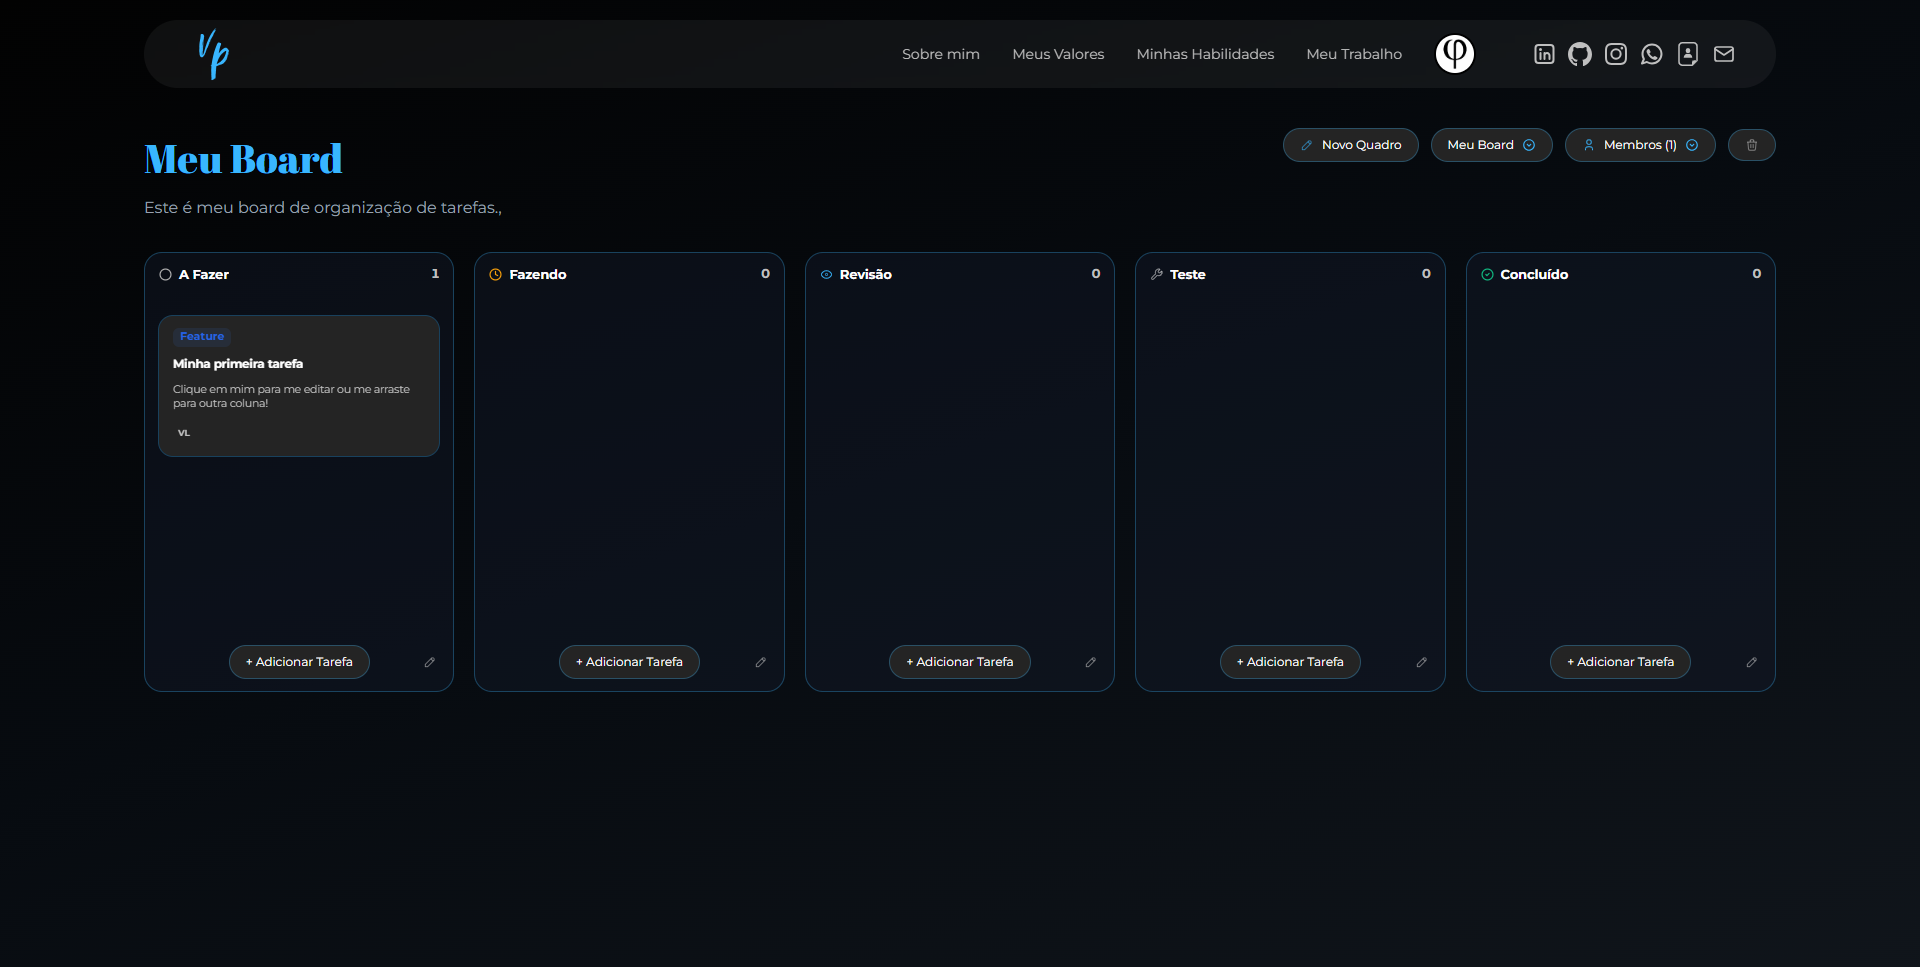
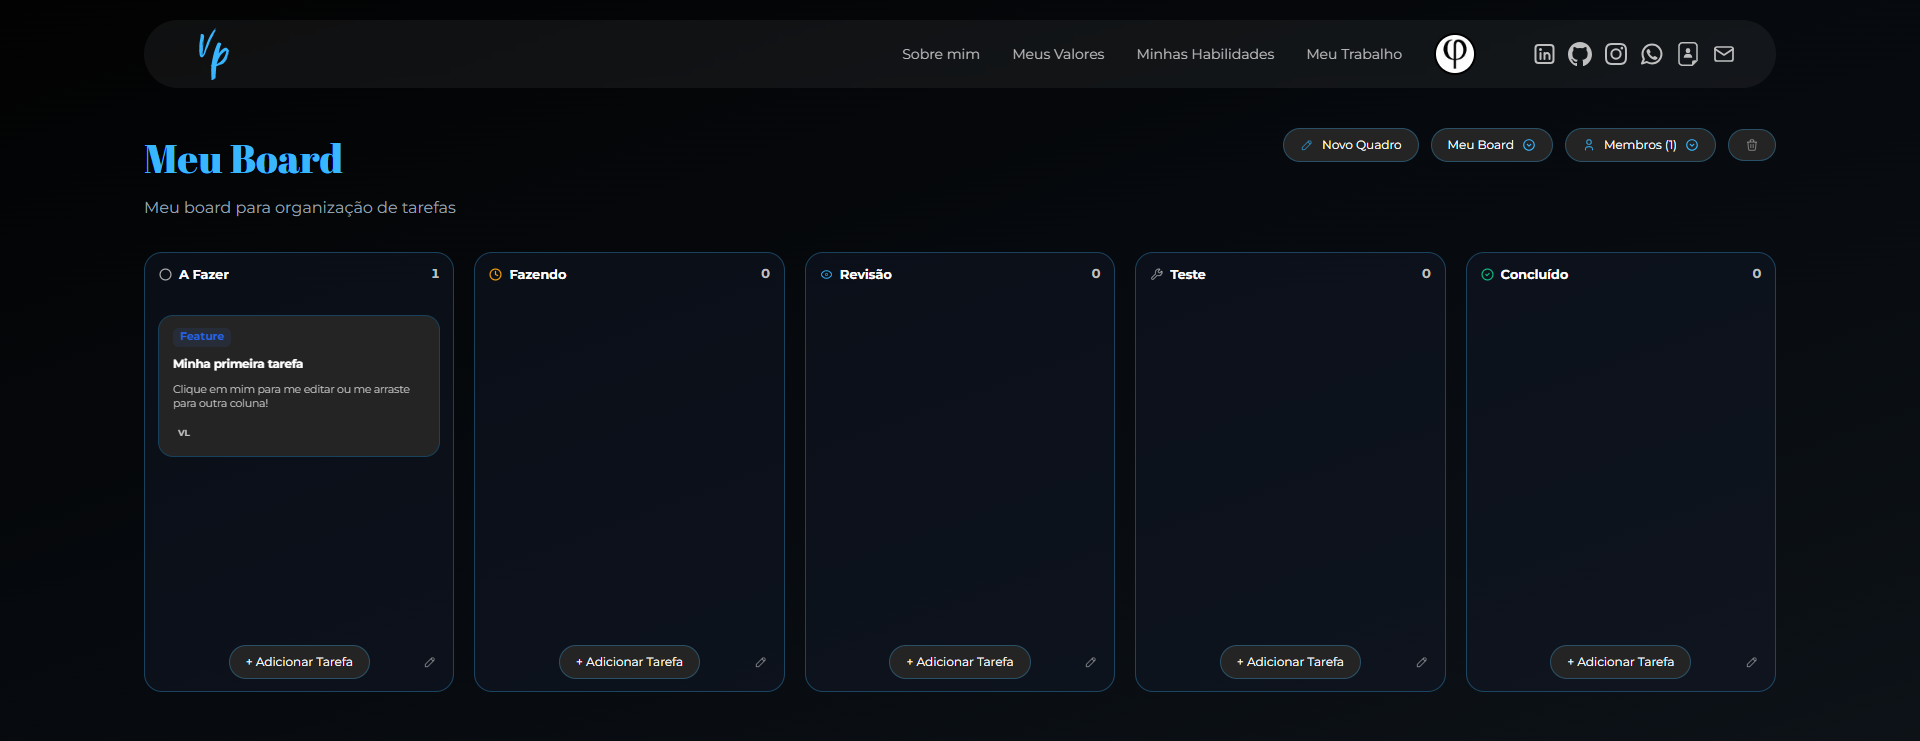
muda drawer, muda scrum-board.png

diff --git a/components/drawers/drawer/Drawer.tsx b/components/drawers/drawer/Drawer.tsx
@@ -25,7 +25,7 @@ export default function Drawer({ title, children, close }: Interface) {
             animate={{ x: 0 }}
             transition={{ duration: 0.4, ease: "easeOut" }}
             className="homeGrayBg h-full w-[85%] sm:w-[60%] lg:w-[40%] xl:w-[30%] flex flex-col gap-y-8
-            px-6 sm:px-10 py-8 overflow-y-auto border-l border-[#38b6ff]/30"
+            px-6 sm:px-10 py-8 overflow-y-auto"
          >
             <span className="flex justify-between items-center gap-x-4">
                <h2 className="authFormTitle">{title}</h2>
